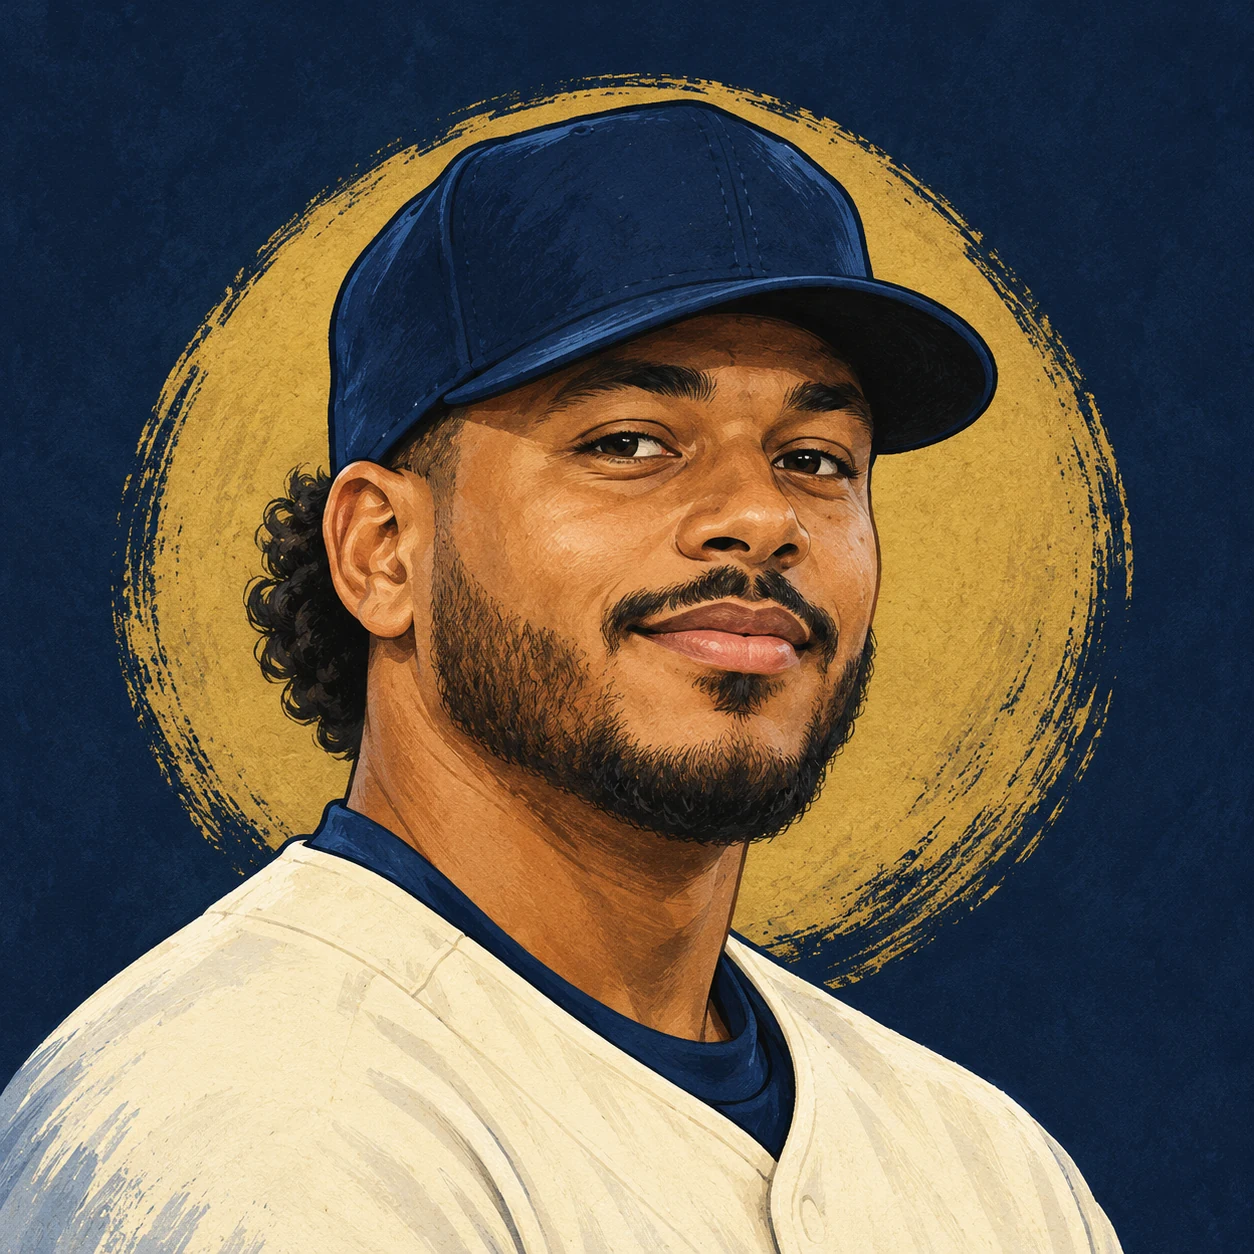
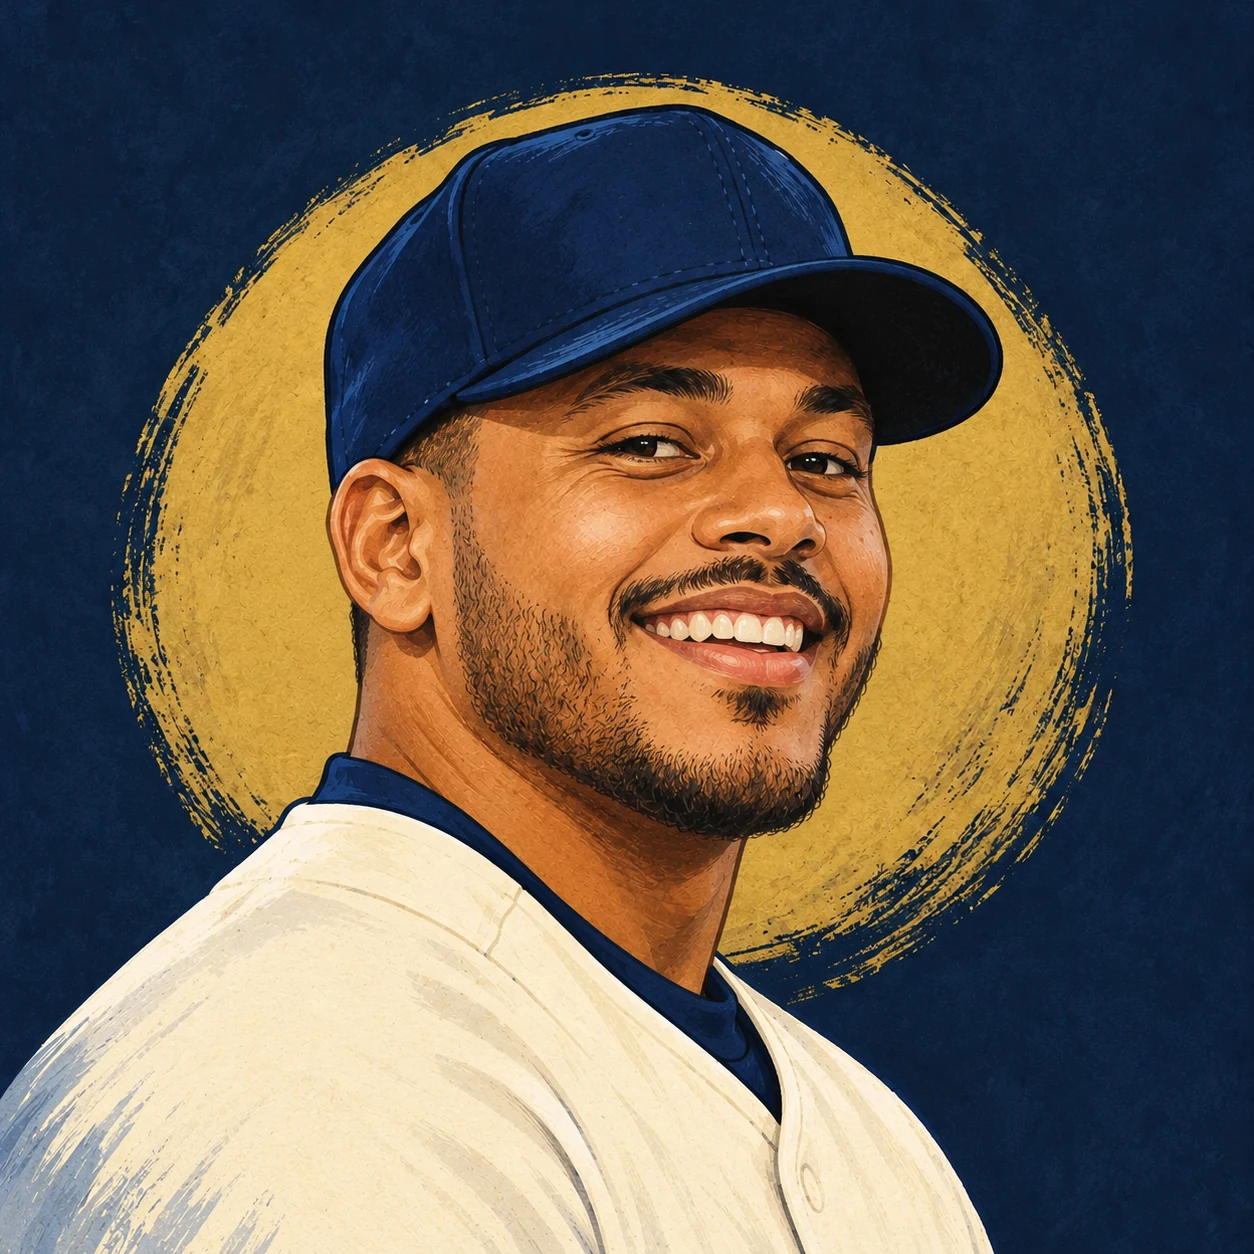
Give Game 6 player portraits distinct identities

diff --git a/libs/ui/src/lib/primitives/avatar/avatar.stories.ts b/libs/ui/src/lib/primitives/avatar/avatar.stories.ts
@@ -1,6 +1,8 @@
 import { GAME_SIX_ILLUSTRATIONS } from '../game-six.example';
+import { JpMedia } from '../media/media';
 import {
   componentWrapperDecorator,
+  moduleMetadata,
   type Meta,
   type StoryObj,
 } from '@storybook/angular';
@@ -54,5 +56,32 @@ export const IllustrationSizes: Story = {
       <jp-avatar name="Freddy Peralta" [src]="artwork.src" />
       <jp-avatar name="Freddy Peralta" [src]="artwork.src" size="lg" />
     </div>`,
+  }),
+};
+
+export const PlayerPortraits: Story = {
+  decorators: [illustrationCaption, moduleMetadata({ imports: [JpMedia] })],
+  render: () => ({
+    props: {
+      players: [
+        { name: 'Freddy Peralta', ...GAME_SIX_ILLUSTRATIONS.peralta },
+        { name: 'Yandy Díaz', ...GAME_SIX_ILLUSTRATIONS.diaz },
+        { name: 'Junior Caminero', ...GAME_SIX_ILLUSTRATIONS.caminero },
+      ],
+    },
+    template: `
+      <section aria-label="Game 6 player portraits" style="display:grid;grid-template-columns:repeat(auto-fit,minmax(12rem,1fr));gap:var(--jp-space-lg)">
+        @for (player of players; track player.name) {
+          <div style="display:grid;gap:var(--jp-space-md)">
+            <jp-media [src]="player.src" [alt]="player.alt" [caption]="player.name" [aspectRatio]="1" loading="eager" />
+            <div style="display:flex;align-items:center;gap:var(--jp-space-md)">
+              <jp-avatar [name]="player.name" [src]="player.src" size="sm" />
+              <jp-avatar [name]="player.name" [src]="player.src" />
+              <jp-avatar [name]="player.name" [src]="player.src" size="lg" />
+            </div>
+          </div>
+        }
+      </section>
+    `,
   }),
 };

diff --git a/libs/ui/src/lib/primitives/game-six.example.ts b/libs/ui/src/lib/primitives/game-six.example.ts
@@ -436,17 +436,17 @@ export const GAME_SIX_ILLUSTRATIONS = {
   },
   peralta: {
     src: 'example-illustrations/game-six/freddy-peralta.webp',
-    alt: 'Cartoon portrait of Freddy Peralta in a navy cap and cream jersey.',
+    alt: 'Cartoon portrait of Freddy Peralta smiling broadly in a navy cap and cream jersey.',
     caption: 'Freddy Peralta · AI-generated illustration',
   },
   diaz: {
     src: 'example-illustrations/game-six/yandy-diaz.webp',
-    alt: 'Cartoon portrait of Yandy Díaz in a navy cap and cream jersey.',
+    alt: 'Cartoon portrait of Yandy Díaz with short hair and a gray chin goatee, wearing a cream jersey.',
     caption: 'Yandy Díaz · AI-generated illustration',
   },
   caminero: {
     src: 'example-illustrations/game-six/junior-caminero.webp',
-    alt: 'Cartoon portrait of Junior Caminero in a navy cap and cream jersey.',
+    alt: 'Cartoon portrait of Junior Caminero smiling in a navy batting helmet, with a full beard and cream jersey.',
     caption: 'Junior Caminero · AI-generated illustration',
   },
 } as const;

diff --git a/apps/showcase/public/example-illustrations/README.md b/apps/showcase/public/example-illustrations/README.md
@@ -18,10 +18,15 @@ The [example content guide](../../../../docs/content/BASEBALL_EXAMPLES.md) ident
 ## Source record
 
 OpenAI image generation produced the five images from text on October 22, 2026.
+The three player portraits were revised on October 23, 2026, with the original generated illustrations as inputs.
+Official MLB player profiles informed the facial descriptions.
 No photograph was supplied as an input image.
 The [source record](game-six/sources.json) contains each prompt, generation date and SHA-256 file hash.
 It also contains hashes for the original PNG outputs.
 The repository stores WebP copies at the original image dimensions.
+
+The Avatar story "Player Portraits" shows all three portraits beside their small, medium and large avatar crops.
+Check facial features, expressions and silhouettes together when you change these assets.
 
 Keep the illustration label in visible captions and describe each image in its alternative text.
 Avatar examples use a visible group caption with each player's accessible name.
